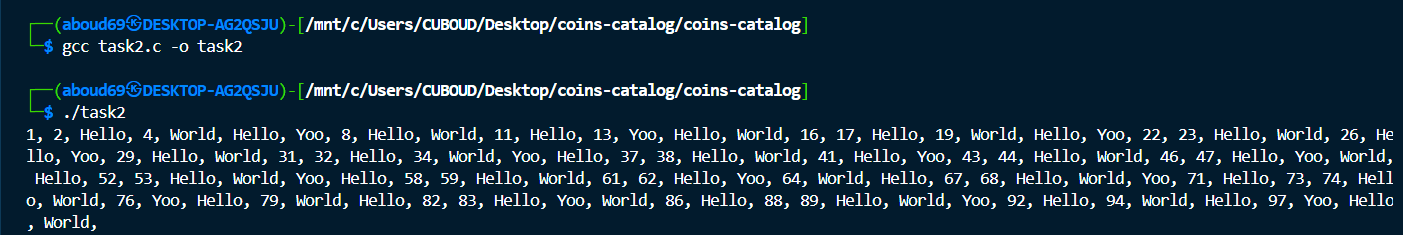
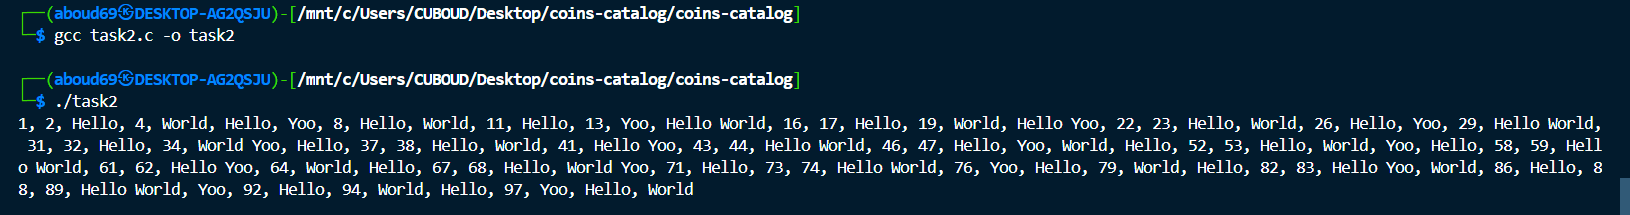
updated task 2 & app deployed

Changed region(s): [[0.0, 0.5302, 1.0, 1.0], [0.0, 0.0279, 0.5823, 0.2512], [0.0, 0.3349, 0.5823, 0.5023]]

diff --git a/README.md b/README.md
@@ -36,27 +36,35 @@ Here is the C code for `task2.c`:
 
 ```c
 #include <stdio.h>
-int main(){
-    for(int i=1; i<=100; i++){
+#include <stdio.h>
+
+int main() {
+    printf("%d,", 1);
+    for (int i = 2; i <= 100; i++) {
         int printed = 0;
-        if(i%3==0){
-            printf("Hello, ");
+        if (i % 3 == 0) {
+            printf(" Hello");
             printed = 1;
         }
-        if(i%5==0){
-            printf("World, ");
+        if (i % 5 == 0) {
+            printf(" World");
             printed = 1;
         }
-        if(i%7==0){
-            printf("Yoo, ");
+        if (i % 7 == 0) {
+            printf(" Yoo");
             printed = 1;
         }
-        if(printed == 0){
-            printf("%d, ", i);
+        if (!printed) {
+            printf(" %d", i);
+        }
+        if (i < 100) {
+            printf(",");
         }
     }
+    printf("\n");
     return 0;
 }
+
 ```
 
 And here is the result:
@@ -66,19 +74,23 @@ And here is the result:
 Here is the Python code for `task2.py`:
 
 ```python
-for i in range(1, 101):
+print(1, end=",")
+for i in range(2, 101):
     printed = False
     if i % 3 == 0:
-        print("Hello,", end=" ")
+        print(" Hello", end="")
         printed = True
     if i % 5 == 0:
-        print("World,", end=" ")
+        print(" World", end="")
         printed = True
     if i % 7 == 0:
-        print("Yoo,", end=" ")
+        print(" Yoo", end="")
         printed = True
     if not printed:
-        print(i, end=", ")
+        print(" {}".format(i), end="")
+    if i < 100:
+        print(",", end="")
+print()
 ```
 
 And here is the result:
